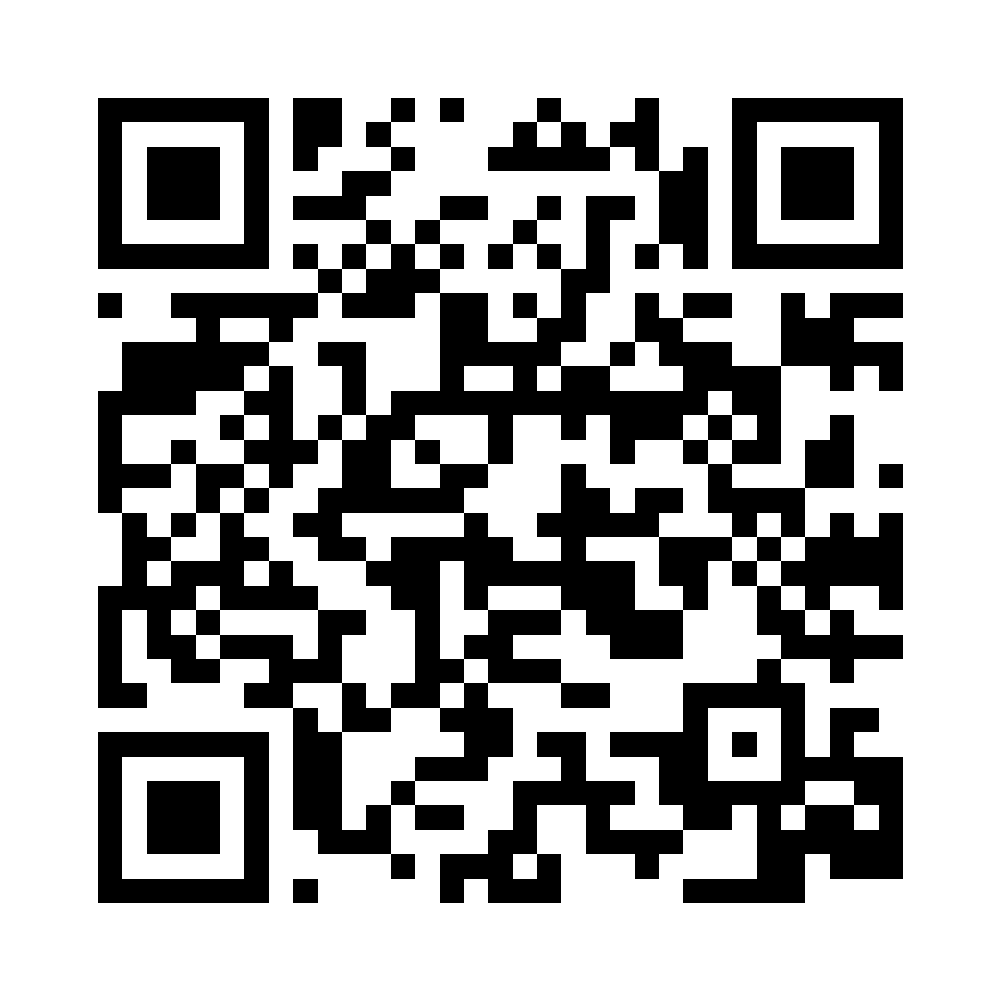
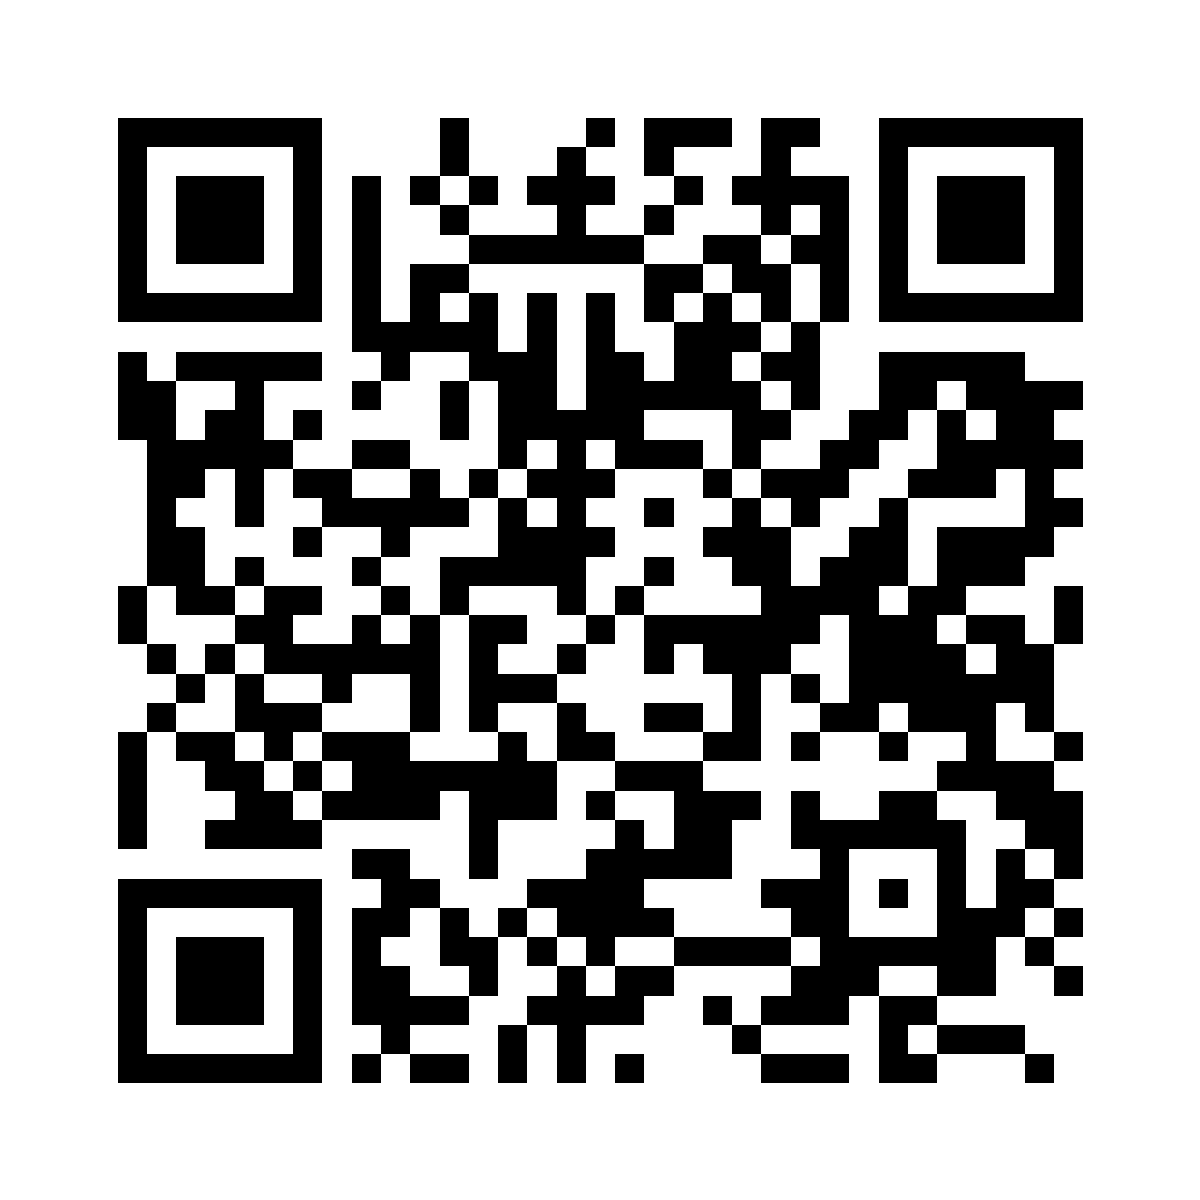
feat: route gym subdomains to registration and check-in

Changed region(s): [[0.093, 0.093, 0.93, 0.93]]

diff --git a/components/qr-registration.tsx b/components/qr-registration.tsx
@@ -6,7 +6,7 @@ import QRCode from 'qrcode';
 import { Download, ExternalLink, RefreshCw, QrCode } from 'lucide-react';
 import type { Database, Member } from '@/types';
 import type { RegistrationRequest } from '@/types/onboarding';
-import { registrationLink } from '@/lib/registration';
+import { REGISTRATION_ORIGIN, registrationLink } from '@/lib/registration';
 import { approveRegistration, declineRegistration, registrationRequests } from '@/services/onboarding';
 import type { MembershipSelection } from '@/lib/memberships';
 import { MembershipChoices } from './membership-choices';
@@ -14,12 +14,11 @@ import { WorkspaceDialog } from './workspace-dialog';
 import { RegistrationDetails } from './registration-details';
 
 export default function QrRegistration({ db, branch, refresh, notify, openMember }: { db: Database; branch: string; refresh: (loading?: boolean) => Promise<void>; notify: (message: string) => void; openMember: (member: Member) => void }) {
- const [origin, setOrigin] = useState('https://hybrid-management.vercel.app');
+ const [origin, setOrigin] = useState(REGISTRATION_ORIGIN);
  const [code, setCode] = useState(''), [requests, setRequests] = useState<RegistrationRequest[]>([]), [error, setError] = useState(''), [loading, setLoading] = useState(true);
  const [selected, setSelected] = useState<RegistrationRequest | null>(null), [choices, setChoices] = useState<MembershipSelection[]>([]), [busy, setBusy] = useState(false), [status, setStatus] = useState('PENDING');
  const qrBranch = db.branches.find(b => b.id === branch) || db.branches.find(b => b.active);
  let link = ''; try { if (qrBranch) link = registrationLink(origin, qrBranch.code); } catch { /* Show URL validation below. */ }
- useEffect(() => { if (!['localhost','127.0.0.1','0.0.0.0'].includes(window.location.hostname)) setOrigin(window.location.origin); }, []);
  useEffect(() => { let active = true; setCode(''); if (link) QRCode.toDataURL(link, { width: 600, margin: 4, errorCorrectionLevel: 'M', color: { dark: '#000000', light: '#ffffff' } }).then(value => { if (active) setCode(value); }).catch(() => setError('Could not generate the QR code.')); return () => { active = false; }; }, [link]);
  const reload = useCallback(async () => { try { const rows = await registrationRequests(branch); setRequests(rows); setError(''); } catch (cause) { setError(cause instanceof Error ? cause.message : 'Could not load registrations.'); } finally { setLoading(false); } }, [branch]);
  useEffect(() => { void reload(); const timer = setInterval(() => void reload(), 30000); return () => clearInterval(timer); }, [reload]);

diff --git a/tests/subdomains.test.ts b/tests/subdomains.test.ts
@@ -1,0 +1,45 @@
+import { test } from 'node:test';
+import assert from 'node:assert/strict';
+import { NextRequest } from 'next/server';
+import { middleware } from '../middleware';
+import { REGISTRATION_ORIGIN, registrationLink } from '../lib/registration';
+import { CHECK_IN_ORIGIN, gymCheckInLink } from '../lib/gym-check-in';
+
+const token = '11111111-1111-4111-8111-111111111111';
+const request = (url: string) => new NextRequest(url, { headers: { host: new URL(url).host } });
+
+test('public subdomain roots open the existing forms and keep staff routing intact', () => {
+ const previous = process.env.GYM_CHECK_IN_TOKEN;
+ process.env.GYM_CHECK_IN_TOKEN = token;
+ try {
+  for (const [host, path] of [
+   ['register.hybridcombativegym.com', '/join/dd'],
+   ['checkin.hybridcombativegym.com', `/check-in/${token}`],
+  ]) {
+   const response = middleware(request(`https://${host}/?source=qr`));
+   assert.equal(response.headers.get('x-middleware-rewrite'), `https://${host}${path}?source=qr`);
+  }
+  for (const url of [
+   'https://management.hybridcombativegym.com/',
+   'https://hybrid-management.vercel.app/',
+   'http://localhost:3000/',
+   'https://register.hybridcombativegym.com/join/ab',
+   `https://checkin.hybridcombativegym.com/check-in/${token}`,
+   'https://register.hybridcombativegym.com.evil.example/',
+  ]) {
+   assert.equal(middleware(request(url)).headers.get('x-middleware-next'), '1');
+  }
+  for (const value of ['', '../member', 'not-a-token']) {
+   process.env.GYM_CHECK_IN_TOKEN = value;
+   assert.equal(middleware(request(`${CHECK_IN_ORIGIN}/`)).status, 503);
+  }
+ } finally {
+  if (previous === undefined) delete process.env.GYM_CHECK_IN_TOKEN;
+  else process.env.GYM_CHECK_IN_TOKEN = previous;
+ }
+});
+
+test('new QR codes use the public subdomains with their branch and token', () => {
+ assert.equal(registrationLink(REGISTRATION_ORIGIN, 'DD'), 'https://register.hybridcombativegym.com/join/dd');
+ assert.equal(gymCheckInLink(CHECK_IN_ORIGIN, token), `https://checkin.hybridcombativegym.com/check-in/${token}`);
+});

diff --git a/components/gym-check-in-qr.tsx b/components/gym-check-in-qr.tsx
@@ -4,7 +4,7 @@ import {useEffect,useState} from 'react';
 import QRCode from 'qrcode';
 import {Download,ExternalLink,QrCode} from 'lucide-react';
 import type {Database} from '@/types';
-import {gymCheckInLink} from '@/lib/gym-check-in';
+import {CHECK_IN_ORIGIN,gymCheckInLink} from '@/lib/gym-check-in';
 import {getGymCheckInQr} from '@/services/gym-check-in';
 
 export function GymCheckInQr({branches,branch}:{branches:Database['branches'];branch:string}) {
@@ -20,8 +20,7 @@ export function GymCheckInQr({branches,branch}:{branches:Database['branches'];br
   setQr(null);setError('');
   if(!selectedId)return()=>{active=false;};
   getGymCheckInQr(selectedId).then(async token=>{
-   const origin=['localhost','127.0.0.1','0.0.0.0'].includes(window.location.hostname)?'https://hybrid-management.vercel.app':window.location.origin;
-   const link=gymCheckInLink(origin,token);
+   const link=gymCheckInLink(CHECK_IN_ORIGIN,token);
    const image=await QRCode.toDataURL(link,{width:600,margin:4,errorCorrectionLevel:'M',color:{dark:'#000000',light:'#ffffff'}});
    if(active)setQr({branchId:selectedId,image,link});
   }).catch(cause=>{if(active)setError(cause instanceof Error?cause.message:'Could not generate check-in QR.');});

diff --git a/middleware.ts b/middleware.ts
@@ -1,0 +1,22 @@
+import { NextRequest, NextResponse } from 'next/server';
+import { gymQrTokenPattern } from './lib/gym-check-in';
+
+export function middleware(request: NextRequest) {
+ if (request.nextUrl.pathname !== '/') return NextResponse.next();
+ const host = request.headers.get('host')?.split(':')[0].toLowerCase();
+ const destination = request.nextUrl.clone();
+ if (host === 'register.hybridcombativegym.com') {
+  destination.pathname = '/join/dd';
+ } else if (host === 'checkin.hybridcombativegym.com') {
+  const token = process.env.GYM_CHECK_IN_TOKEN || '';
+  if (!gymQrTokenPattern.test(token)) {
+   return new NextResponse('Check-in is unavailable. Please speak to reception.', { status: 503 });
+  }
+  destination.pathname = `/check-in/${token}`;
+ } else {
+  return NextResponse.next();
+ }
+ return NextResponse.rewrite(destination);
+}
+
+export const config = { matcher: '/' };

diff --git a/lib/registration.ts b/lib/registration.ts
@@ -1,6 +1,8 @@
 import type { RegistrationDetails } from '@/types/onboarding';
 import hybridForm from './hybrid-google-form.json';
 
+export const REGISTRATION_ORIGIN = 'https://register.hybridcombativegym.com';
+
 export const HEALTH_QUESTIONS = [
  ['heart', 'Have you ever had any heart condition, heart disease, heart attack or a family history of heart-related illnesses?'],
  ['chestPain', 'Do you feel any discomfort or pain when performing physical activities or exercising?'],

diff --git a/lib/gym-check-in.ts b/lib/gym-check-in.ts
@@ -1,3 +1,5 @@
+export const CHECK_IN_ORIGIN = 'https://checkin.hybridcombativegym.com';
+
 export const gymQrTokenPattern = /^[0-9a-f]{8}-[0-9a-f]{4}-[0-9a-f]{4}-[0-9a-f]{4}-[0-9a-f]{12}$/i;
 
 export function gymCheckInLink(origin: string, token: string) {

diff --git a/README.md b/README.md
@@ -75,7 +75,7 @@ Saved login sessions may be remembered by Supabase in the same browser. Use **Si
 
 ### QR self-registration and arrival capture
 
-For an existing Supabase database, run `supabase/003_qr_registration.sql` once in SQL Editor if QR registration has not been set up, then run `supabase/004_personal_details_registration.sql`. If 003 is already installed, apply 004 if needed. Then apply `supabase/005_multiple_membership_registration.sql` to enable staff approval of multiple memberships together. New installations need 003, 004 and 005 after the base setup. Staff can then open **QR sign-up**, download a branch-specific QR and review submissions. The DD form is `https://hybrid-management.vercel.app/join/dd`; the QR screen can generate codes for another deployment origin or branch. The repository also includes `public/hybrid-dd-signup-qr.png` for printing.
+For an existing Supabase database, run `supabase/003_qr_registration.sql` once in SQL Editor if QR registration has not been set up, then run `supabase/004_personal_details_registration.sql`. If 003 is already installed, apply 004 if needed. Then apply `supabase/005_multiple_membership_registration.sql` to enable staff approval of multiple memberships together. New installations need 003, 004 and 005 after the base setup. Staff can then open **QR sign-up**, download a branch-specific QR and review submissions. The DD form is `https://register.hybridcombativegym.com/`; the QR screen uses the registration subdomain and can generate codes for another deployment origin or branch. Previously printed codes using `https://hybrid-management.vercel.app/join/dd` remain compatible when that deployment is publicly accessible. Download a fresh QR from the workspace for the custom domain.
 
 New members enter personal details and consent without a staff account. The public QR form has no class selection, membership plan, start date, price or payment fields. Submission records an arrival timestamp and a **pending** registration. It does not activate a paid membership, collect online payment, verify physical presence or mark class attendance. Staff review the request, select one or more membership checkboxes, and press **Create member**. Each selected membership has its own start date, duration, expiry preview and amount collected; the form shows the combined total. Staff signup, adding memberships and renewing also support multiple selections. Approval atomically creates the member, all selected memberships, enrollments and payments, and links the original arrival. Staff can open the created member profile and use **Add class membership** to register another class with its own start date, duration, payment and expiry. Renew, freeze and cancel apply to the selected plan only. Member and renewal lists, the dashboard expiry queue and exports show each plan separately. Staff can decline or inspect duplicate requests. Existing members continue to check in with reception.
 
@@ -100,6 +100,8 @@ npm run build
 Tests cover expiry boundaries, month-end/leap-year renewal calculation, member number generation and preservation of historical memberships. A local PostgreSQL engine also executes the schema and checks transactional registration, class capacity, duplicate IDs, role restrictions and access denial for non-staff users. A live Supabase project is still needed to verify hosted authentication and deployment end to end. Before operational use, verify each role in your project, configure backups and your Auth email provider, and test an import with a copy of your real spreadsheet.
 
 ## Vercel deployment
+
+The same Vercel project serves `management.hybridcombativegym.com` (staff sign-in), `register.hybridcombativegym.com` (DD registration), and `checkin.hybridcombativegym.com` (DD gym check-in). Root requests on the public subdomains rewrite to the existing public forms; branch-specific `/join/{code}` and `/check-in/{token}` links remain available. Set the server-only `GYM_CHECK_IN_TOKEN` environment variable to the DD branch's existing QR token in Vercel. A missing or malformed token returns an unavailable message with HTTP 503. New QR downloads use their corresponding public subdomains. The updated `public/hybrid-dd-signup-qr.png` is also available for printing. The roots default to the current DD branch; each additional branch retains its own QR URL. See the [Porkbun setup guide with screenshots](docs/porkbun-setup.md) for DNS records and optional connector setup.
 
 Import this repository into Vercel and select Next.js. This gym's public project URL and publishable key are included in `.env.production`, which Next.js loads during the production build. These two values are intended for browser applications; authorization is enforced through Supabase Authentication and RLS. Never add database passwords, service-role keys or secret keys to this file. `.env.local` remains ignored.
 

diff --git a/docs/porkbun-setup.md b/docs/porkbun-setup.md
@@ -1,0 +1,58 @@
+# Connect the Hybrid subdomains
+
+The three subdomains use the existing `hybrid-management` Vercel project and Supabase database. You do not need to purchase another domain or change nameservers.
+
+| Address | Purpose |
+| --- | --- |
+| https://management.hybridcombativegym.com/ | Staff sign-in and management |
+| https://register.hybridcombativegym.com/ | New member registration for hybrid@KIP (DD) |
+| https://checkin.hybridcombativegym.com/ | Existing member check-in for hybrid@KIP (DD) |
+
+`checkin-hybridcombativegym.com` is a different domain. Use the address with a dot after `checkin`.
+
+## Add the DNS records yourself
+
+These screenshots come from [Porkbun's official guide](https://kb.porkbun.com/article/311-how-to-connect-a-domain-to-chatgpt-sites). They illustrate the buttons; use the Hybrid values below instead of the example values in the screenshots.
+
+1. Sign in to Porkbun. Open **Account → Domain Management** and find `hybridcombativegym.com`.
+
+   ![Porkbun Account menu with Domain Management](https://porkbun-media.s3.us-west-2.amazonaws.com/knowledgebase/account-domain-management.png)
+
+2. Open **Details**, then the edit button beside **DNS Records**. If you already see the DNS editor, continue to step 3.
+
+   ![Porkbun Details menu showing DNS Records](https://porkbun-media.s3.us-west-2.amazonaws.com/knowledgebase/details-menu-dnsrecords.png)
+
+3. Select **Add Record**.
+
+   ![Porkbun DNS editor showing the Add Record button](https://porkbun-media.s3.us-west-2.amazonaws.com/knowledgebase/dns-records-addbtn.png)
+
+4. Choose **CNAME – Canonical name record**. Enter one row from this table, leave TTL at `600`, and save. Repeat for all three rows.
+
+   | Type | Host | Answer / Value |
+   | --- | --- | --- |
+   | CNAME | `management` | `5bd35ddd6b2be31e.vercel-dns-017.com` |
+   | CNAME | `register` | `5bd35ddd6b2be31e.vercel-dns-017.com` |
+   | CNAME | `checkin` | `5bd35ddd6b2be31e.vercel-dns-017.com` |
+
+   ![Porkbun DNS record form with Type, Host, and Answer fields](https://porkbun-media.s3.us-west-2.amazonaws.com/knowledgebase/dns-records-add.png)
+
+   Enter only the subdomain label in **Host**, such as `register`. Enter the target without `https://` or a slash. These targets were returned by Vercel for this project during setup. If Vercel later recommends a different target, use its current value.
+
+5. Keep unrelated DNS records, email records, and existing nameservers. If a record already exists for one of these exact hosts, inspect it before changing it; a CNAME cannot coexist with another record at the same host.
+
+6. Open **Vercel → hybrid-management → Settings → Domains** and refresh each domain's status. Vercel must detect the records and provision HTTPS before the addresses work. Then open each address in a private browser window. Registration and check-in should open their public forms; management should require staff sign-in.
+
+7. Download fresh registration and check-in QR codes from the management workspace after DNS and HTTPS work. Existing branch-specific URLs remain supported.
+
+## Optional: connect Porkbun so the assistant can add DNS
+
+The connector replaces the manual DNS steps. It does not require sharing a password or API key in chat. See [Porkbun's connection instructions](https://kb.porkbun.com/article/301-connect-porkbun-to-chatgpt) and [endpoint options](https://porkbun.com/mcp).
+
+1. In Porkbun, enable **API Access** for `hybridcombativegym.com` if disabled.
+2. In ChatGPT web, open **Settings → Security and login** and enable **Developer mode**, following Porkbun's guide. Workspace administrators may need to allow it first.
+3. Open **Plugins → +**. Name the plugin `Porkbun` and select a public endpoint.
+4. Enter `https://mcp.porkbun.com/mcp/no-purchases`. This endpoint includes DNS management and excludes purchases.
+5. Create the plugin, sign in on Porkbun, and approve management access. Restrict the connected app to `hybridcombativegym.com` in Porkbun's API access settings.
+6. Add the connected Porkbun plugin from the chat tools menu. If the current conversation cannot see it, open a new conversation and provide the repository and domain names from this guide.
+
+If your ChatGPT interface uses different labels, follow the current official guide or use the manual DNS steps above. No passwords, secret API keys, or Supabase service keys are needed in the conversation.
